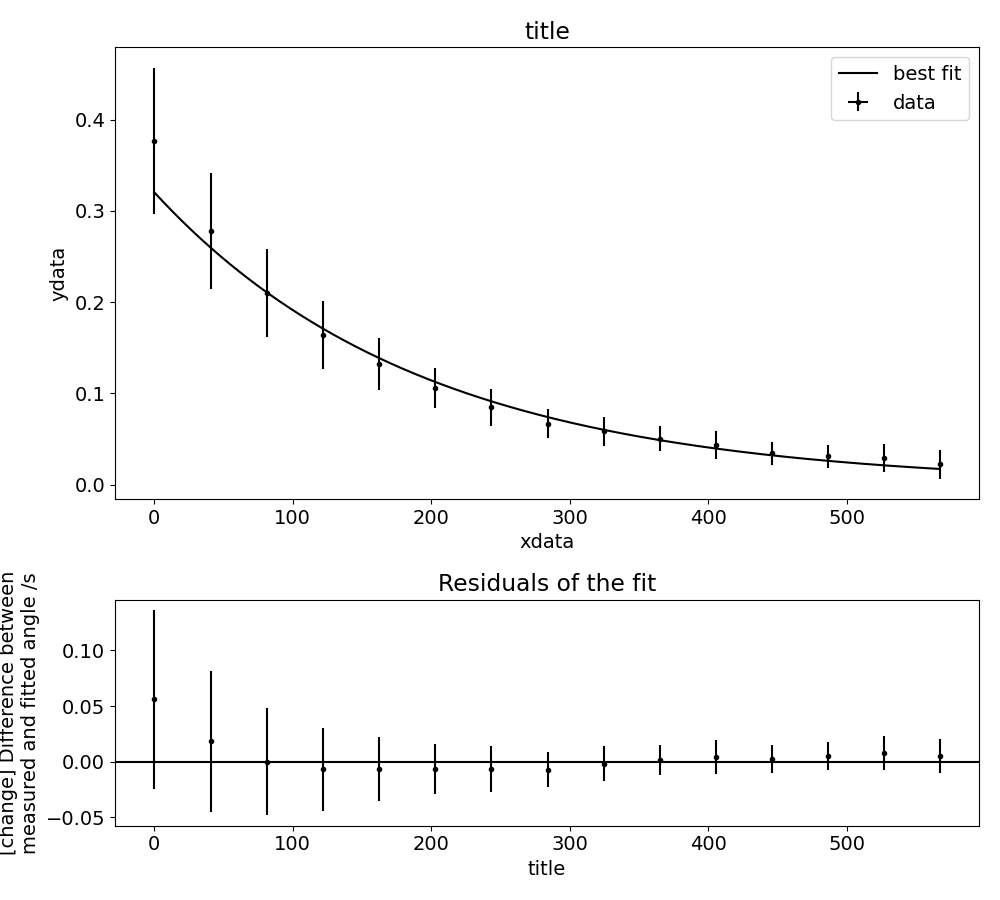
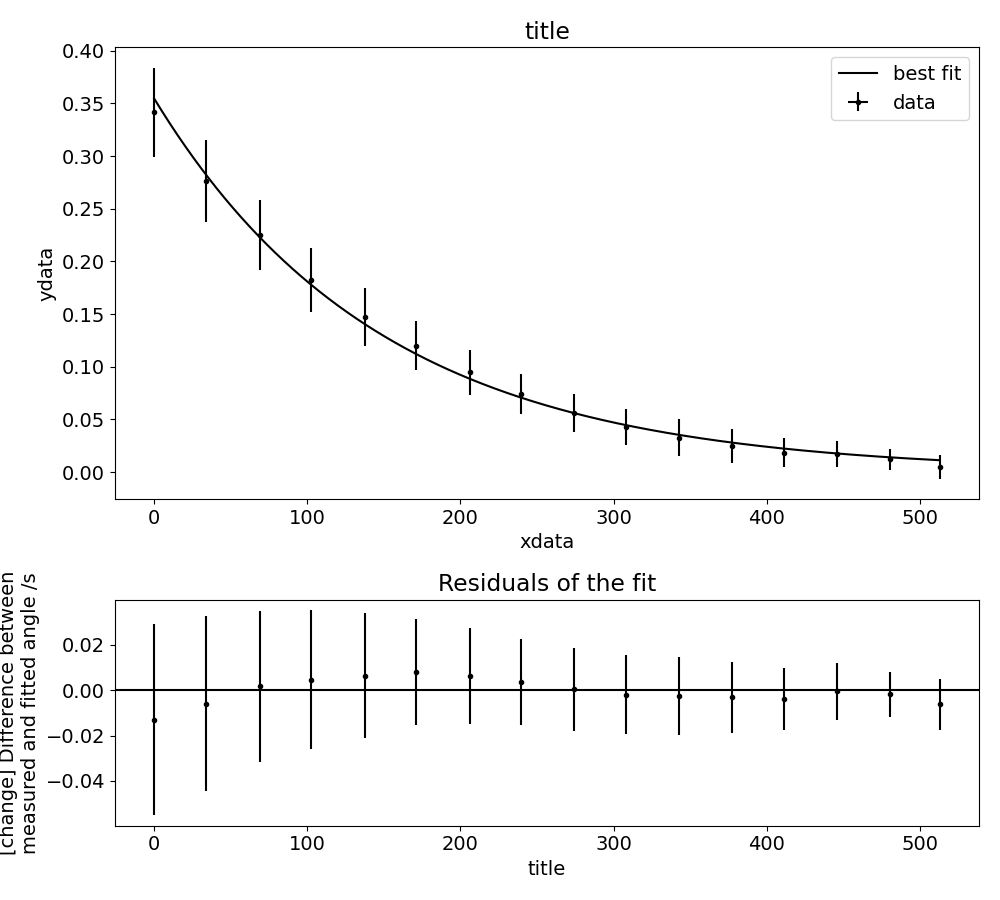
small adjustment for graph 4

diff --git a/plotting/qfactor_generation.py b/plotting/qfactor_generation.py
@@ -23,9 +23,10 @@ def quadratic(t, a, b, c):
 def powerlaw(t, a, b):
     return a*t**b
 
-for i in range(1, 10):
+# for i in range(1, 10):
+for i in range(4, 5):
     qfactor_txt_idx = i  # CHANGE REQUIRED
-    init_tau = 70  # CHANGE REQUIRED?
+    init_tau = 120  # CHANGE REQUIRED?
 
     filename=f"qfactor_txt_files\\len{qfactor_txt_idx}.txt"
     # filename="max_amplitude_vs_time.txt"
